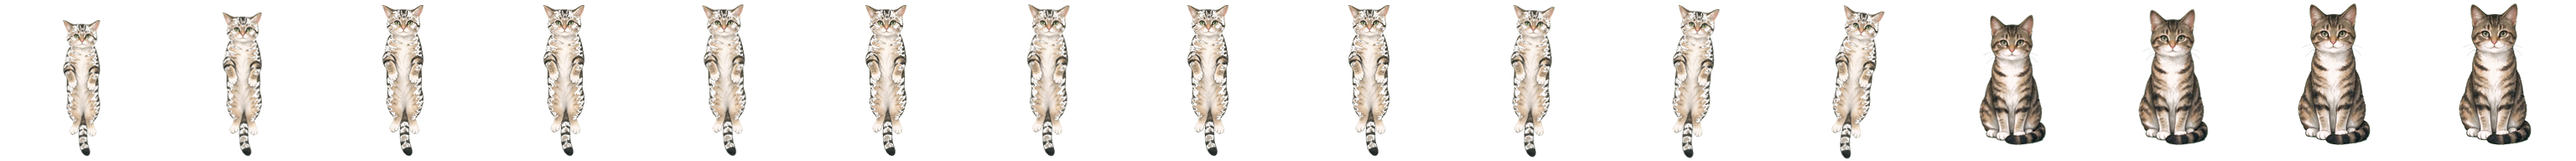
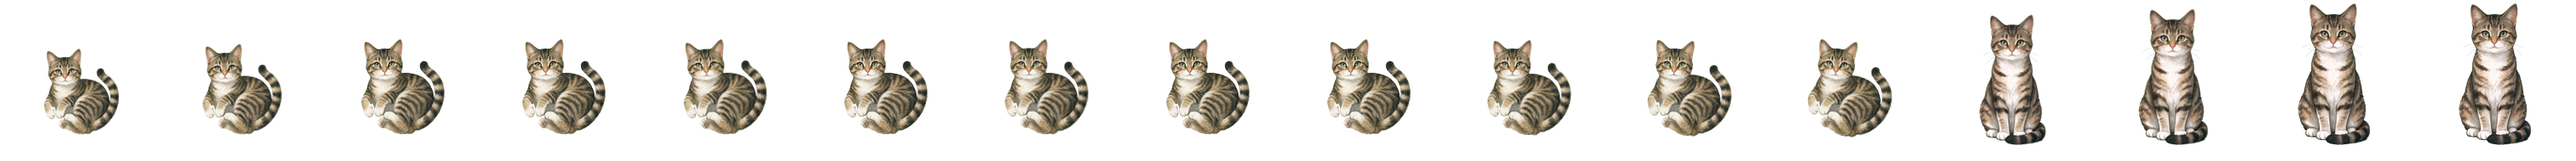
M5 修复：绿幕抠图保毛、猫姿势尺寸统一、书本改为低视角扇形页

diff --git a/src/KaixinPet.Pet/Scene/SceneLayout.cs b/src/KaixinPet.Pet/Scene/SceneLayout.cs
@@ -25,9 +25,9 @@ public static class SceneLayout
     public const double ShadowSleepWidthDip = 180;
     public const double ShadowSleepHeightDip = 45;
 
-    public const double BookLeftDip = 70;
+    public const double BookLeftDip = 62;
     public const double BookTopDip = 216;
-    public const double BookWidthDip = 80;
+    public const double BookWidthDip = 96;
     public const double BookHeightDip = 48;
 
     public const double ShadowHourglassLeftDip = 206;
